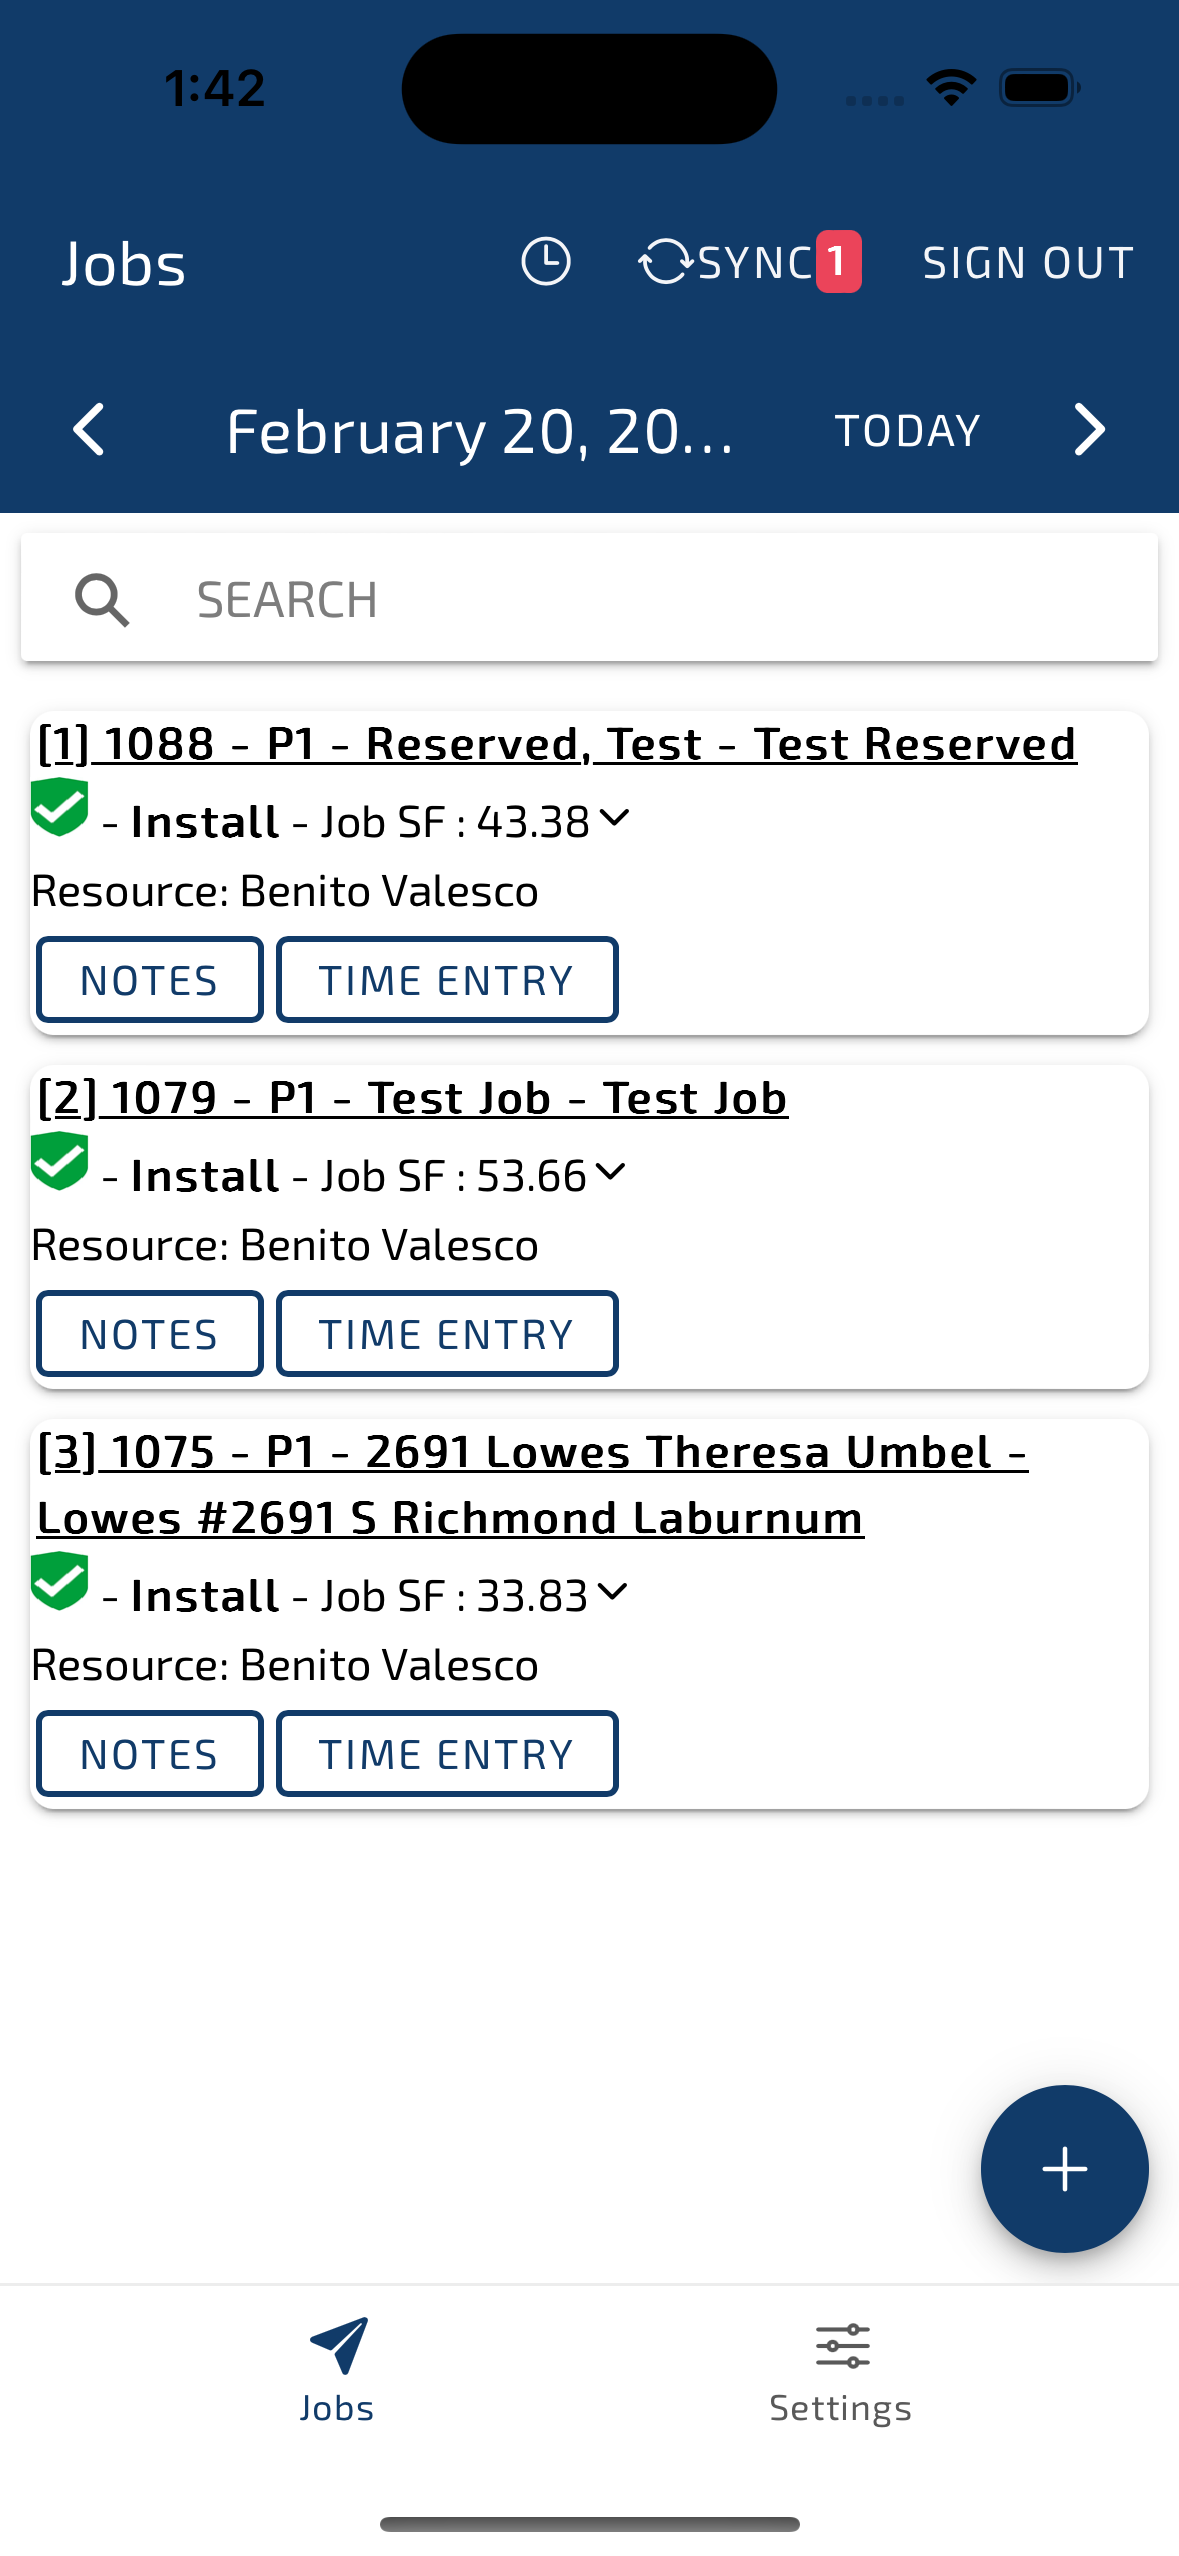
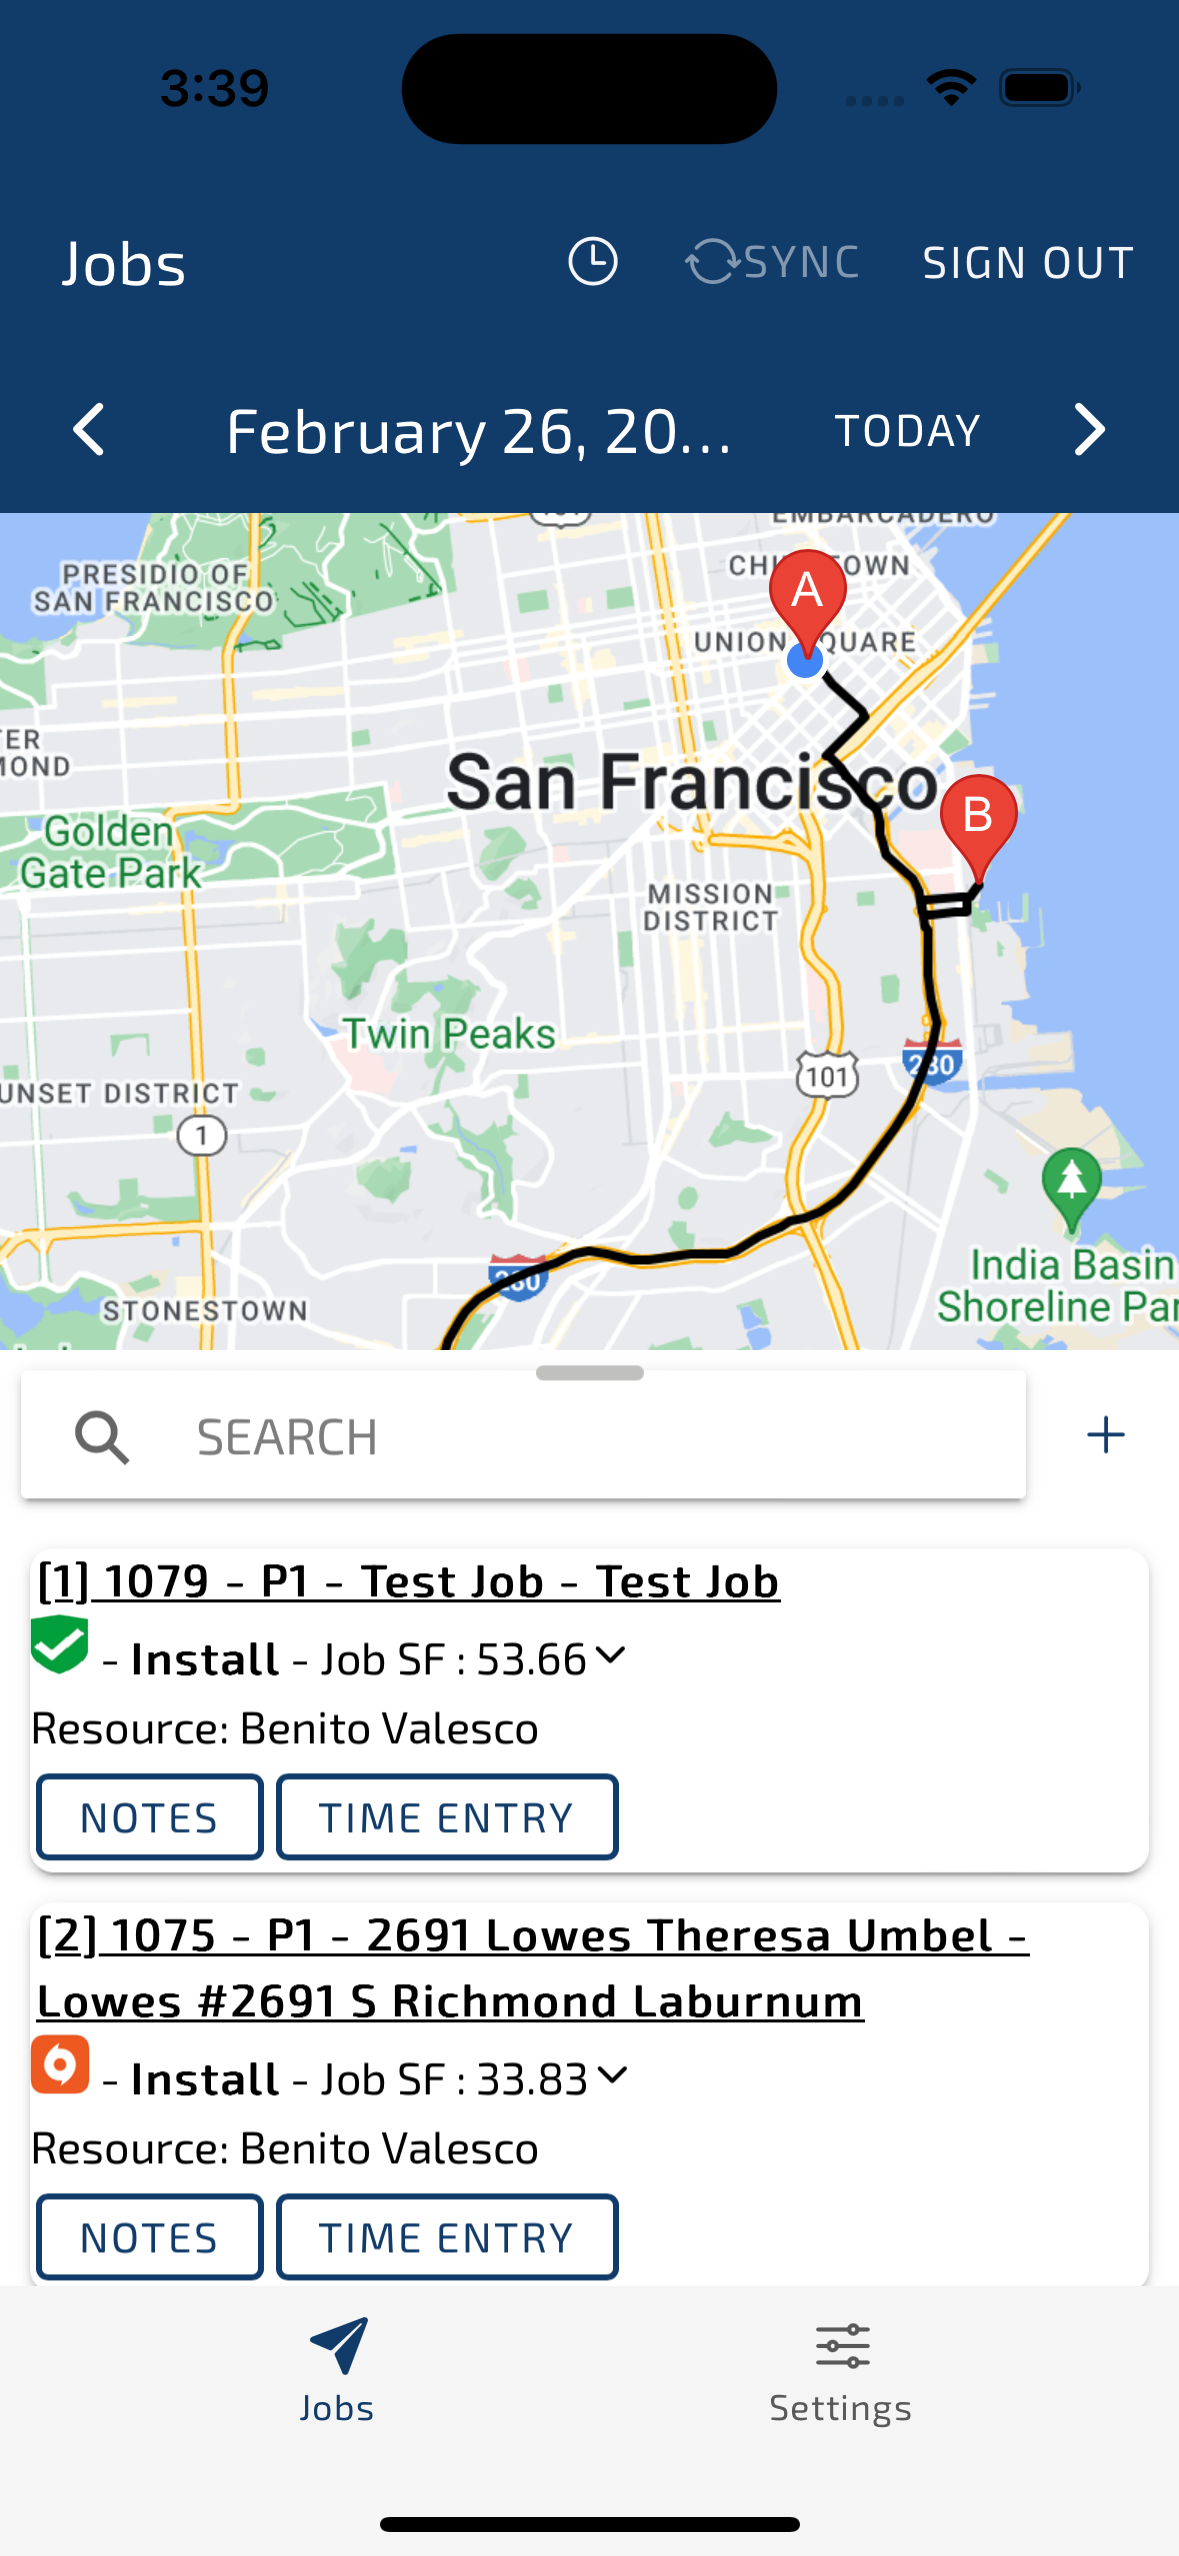
maps

diff --git a/resourceclock.html b/resourceclock.html
@@ -81,7 +81,7 @@
                         <h2 class="h1 hero-title">Field App</h2>
 
                         <p class="hero-text">
-                            This project provided a valuable opportunity to refine my mobile app development skills,
+                            This project provided a valuable opportunity to develop my mobile app development skills,
                             focusing on crafting intuitive
                             UI/UX that even those not familiar with technology can navigate with ease. It was imperative
                             to create simple,
@@ -203,15 +203,19 @@
                     <li>
                         <p>Stores data in SQLite and syncs with server when in online.</p>
                     </li>
+                    <li>
+                        <p>Maps with routes from present location to jobs</p>
+                    </li>
                 </ul>
             </div>
             <div class="hero container">
                 <h2 class="h2">Objective</h2>
                 <div>
-                    The objective of this app is to streamline time tracking for freelancers, contractors, and
-                    employees, enabling them to
-                    punch in and out with ease, access their work logs, and manage their activities efficiently, even
-                    offline.
+                    The aim of this app is to simplify time and task tracking for field employees, such as installers
+                    and project workers.
+                    It's designed to enable them to clock in and out effortlessly, review their work logs, and
+                    coordinate their tasks
+                    effectively, all with the added convenience of offline accessibility.
                 </div>
             </div>
             <div class="hero container">
@@ -225,7 +229,7 @@
         </article>
     </main>
 
-    <footer class="footer">
+    <footer class="footer" style="padding-top: 10px;">
         <div class="footer-bottom">
             <div class="container">
                 <p class="copyright">
